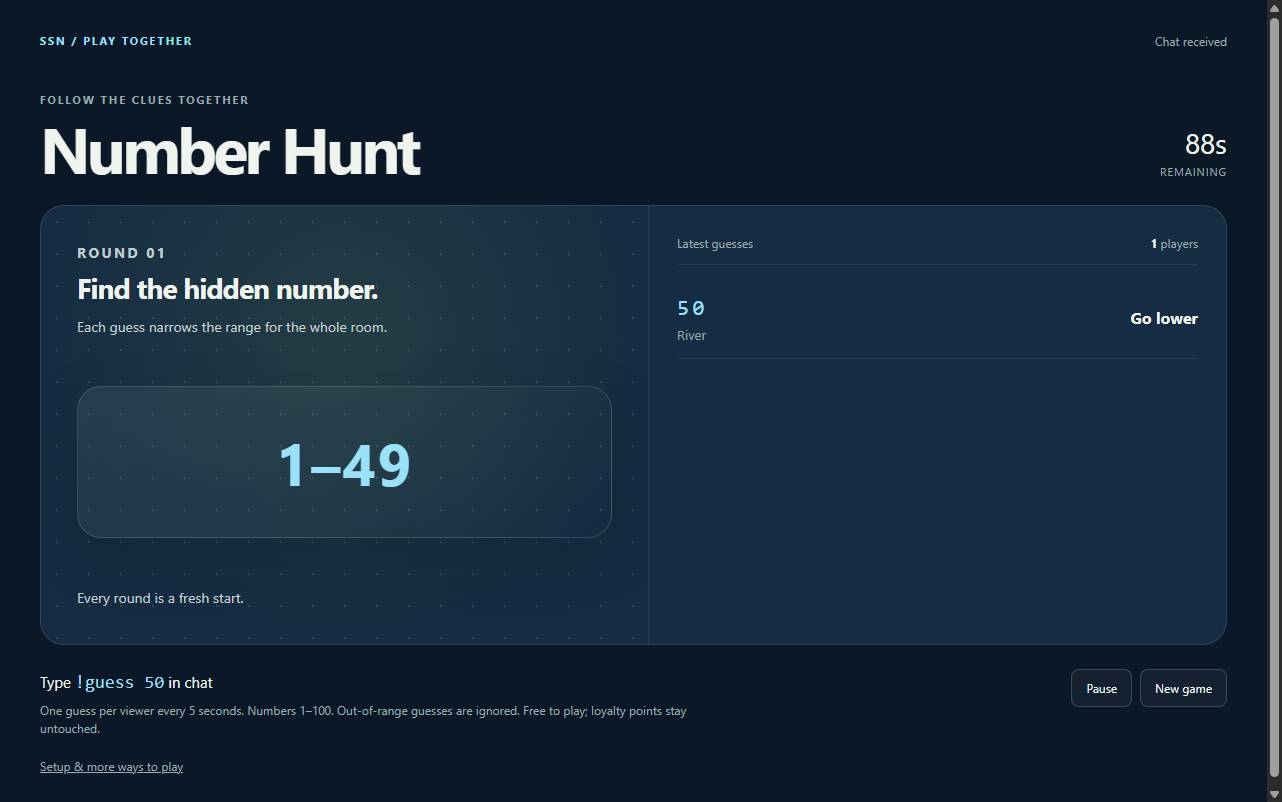
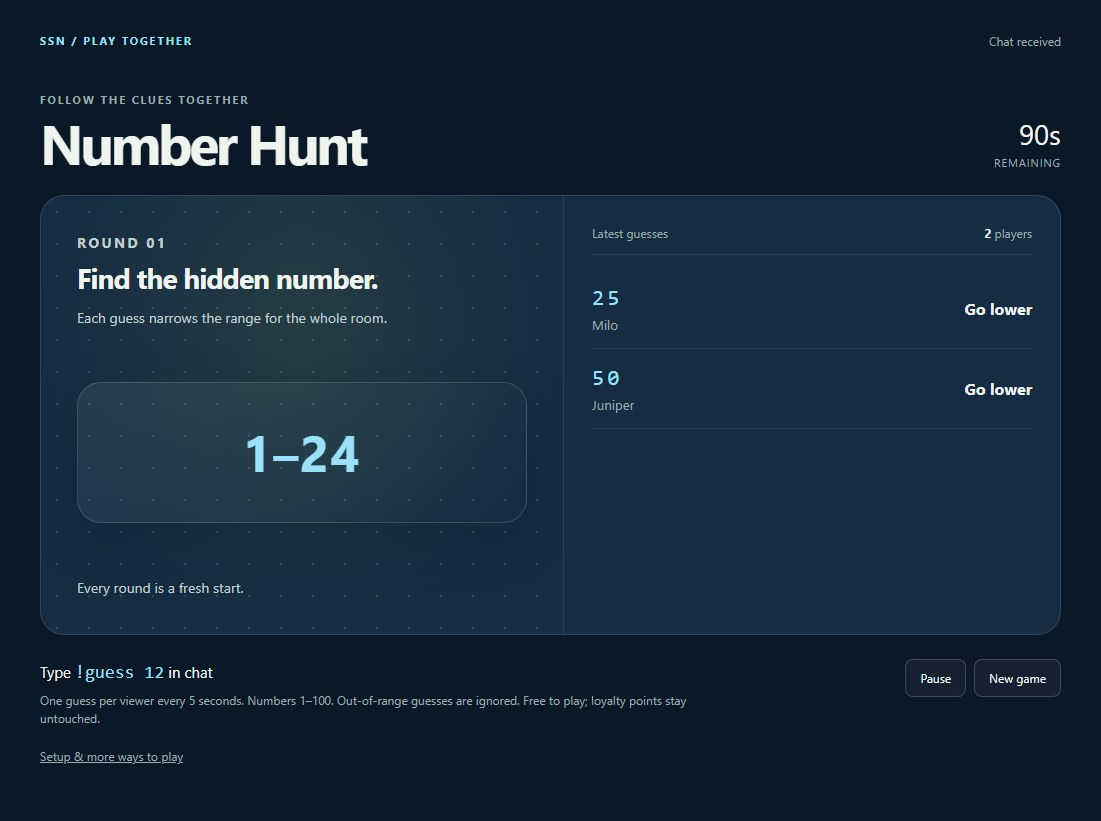
feat(games): add Quick Call game, polish Maze Raid and recent games, expand regression tests
- Add Quick Call (`!quick`) — a fast-paced name-recall game where viewers type their personal 4-character code within 30 seconds; transparent OBS background with `&clean` flag, pause/clear controls, and local best-time leaderboard
- Refresh Maze Raid description: faster auto-roaming explorer, textured brick-and-metal corridors with SSN wall signs, raiders spawn 3–8 steps away, maze now fills OBS browser source
- Update chat-games.html documentation with Quick Call section and revised Maze Raid details; add quickcall.jpg, update mazeraid.jpg and numberhunt.jpg
- Extend runtime regression coverage with new Playwright/e2e tests:
  - `quickcall.test.cjs`, `quickcall-ssapp.e2e.cjs`
  - `recent-games-ssapp.e2e.cjs`, `ambient-rounds-ssapp.e2e.cjs`, `maze-raid-ssapp.e2e.cjs`
  - `sticker-rewards.test.cjs`, `audience-games.test.cjs`, `site-shell.test.cjs`
  - `thermal-label-formatting.test.cjs`, `ambient-games.test.cjs`
- Update `.gitignore` to track new test files and exclude local TTS service clones, Firefox build output, and Windows cache artifacts

[auto-enhanced]

diff --git a/games/ambient-page.js b/games/ambient-page.js
@@ -2,7 +2,7 @@
 'use strict';
 var params=new URLSearchParams(location.search),mode=document.body.dataset.game,game=new SSNOverlayGame.Game(mode),demo=params.has('demo'),paused=false;
 var canvas=document.getElementById('playfield'),ctx=canvas.getContext('2d'),connection=document.getElementById('connection'),result=document.getElementById('result'),images=new Map(),last=performance.now(),lastDraw=0;
-function resize(){if(mode!=='maze')canvas.width=Math.min(1600,window.innerWidth);}
+function resize(){if(mode!=='maze'){canvas.width=Math.min(1600,window.innerWidth);return;}var scale=Math.min(1,640/window.innerWidth,480/window.innerHeight);canvas.width=Math.max(1,Math.round(window.innerWidth*scale));canvas.height=Math.max(1,Math.round(window.innerHeight*scale));}
 window.addEventListener('resize',resize);resize();
 if(demo)document.body.classList.add('demo');if(params.has('clean')){document.getElementById('controls').hidden=true;connection.hidden=true;}if(params.has('fullscreen'))document.body.classList.add('fullscreen');
 if(params.has('chroma'))document.body.classList.add('chroma');
@@ -17,10 +17,10 @@ function drawAmbient(){var w=canvas.width,h=canvas.height;ctx.clearRect(0,0,w,h)
   ctx.strokeStyle=ready?'#ceffa8':'#cce2db';ctx.lineWidth=3;ctx.beginPath();ctx.ellipse(w/2,100,Math.max(30,width/8),42,0,0,Math.PI*2);ctx.stroke();
   var glow=ctx.createRadialGradient(x,y,0,x,y,35);glow.addColorStop(0,'#f3ffd6cc');glow.addColorStop(1,'#d5ff8c00');ctx.fillStyle=glow;ctx.fillRect(x-35,y-35,70,70);star(x,y,12,'#edffc7');
   text(game.phase==='waiting'?'Type !catch to wake the fireflies':ready?'CATCH NOW!':'Wait for the ring...',w/2,174,w<600?13:18,ready?'#dcffb2':'#eef8f3','center');
-  game.effects.forEach(function(e,i){var age=game.time-e.at;text(e.name.slice(0,14)+(e.score?' +'+e.score:' · too early / late'),left+(i%4)*width/4,135-age*20,12,e.score?'#e2ffc1':'#c2c8cf');});
+  game.effects.forEach(function(e,i){var age=game.time-e.at;text(e.name.slice(0,14)+(e.score?' +'+e.score:' - too early / late'),left+(i%4)*width/4,135-age*20,12,e.score?'#e2ffc1':'#c2c8cf');});
  }else{
   ['#ffa3a3','#9deedc'].forEach(function(color,team){var y=65+team*70,progress=game.points[team]/20,x=left+width*progress;ctx.fillStyle='#18263899';roundRect(left,y-5,width,10,5);ctx.fill();var glow=ctx.createLinearGradient(Math.max(left,x-100),0,x+1,0);glow.addColorStop(0,color+'00');glow.addColorStop(1,color);ctx.fillStyle=glow;ctx.fillRect(Math.max(left,x-100),y-4,Math.min(100,x-left),8);star(x,y,18,color);text(team?'MINT':'CORAL',left,y-24,12,color);text(game.points[team]+' / 20',right,y-24,12,color,'right');});
-  ctx.strokeStyle='#e8f1ff';ctx.lineWidth=2;ctx.beginPath();ctx.moveTo(right+18,36);ctx.lineTo(right+18,155);ctx.stroke();text('Type !boost · Your first boost assigns your team',w/2,188,w<600?10:16,'#f4f7ff','center');
+  ctx.strokeStyle='#e8f1ff';ctx.lineWidth=2;ctx.beginPath();ctx.moveTo(right+18,36);ctx.lineTo(right+18,155);ctx.stroke();text('Type !boost - Your first boost assigns your team',w/2,188,w<600?10:16,'#f4f7ff','center');
   game.effects.forEach(function(e,i){text(e.name.slice(0,14)+' +1',left+(i%5)*width/5,65+e.team*70-(game.time-e.at)*15,12,e.team?'#9deedc':'#ffa3a3');});
  }
 }
@@ -45,8 +45,18 @@ function makeMazeTextures(){
  }
  return textures;
 }
+function makeRaiderSprite(enemy,record){
+ var sprite=document.createElement('canvas');sprite.width=64;sprite.height=80;var t=sprite.getContext('2d');t.imageSmoothingEnabled=false;
+ var armor=enemy.color?'#74aa94':'#ad7957';
+ t.fillStyle='#172130';t.fillRect(8,68,18,12);t.fillRect(38,68,18,12);t.fillRect(3,40,58,24);
+ t.fillStyle=armor;t.fillRect(9,39,46,30);t.fillRect(0,44,10,17);t.fillRect(54,44,10,17);
+ t.fillStyle='#ced5c4';t.fillRect(12,0,40,43);t.fillStyle='#162537';t.fillRect(15,4,34,34);
+ if(record.ready)t.drawImage(record.img,15,4,34,34);else{t.fillStyle='#d6f2c2';t.font='bold 18px monospace';t.textAlign='center';t.fillText(enemy.name.slice(0,2).toUpperCase(),32,28);}
+ t.fillStyle='#273747';t.fillRect(21,46,22,13);t.fillStyle='#f5cf68';t.fillRect(25,49,4,4);t.fillRect(35,49,4,4);
+ return sprite;
+}
 function drawMaze(){
- var w=canvas.width,h=canvas.height,p=game.explorer,map=game.map,fov=Math.PI/3,rays=320,strip=w/rays,z=[];
+ var w=canvas.width,h=canvas.height,p=game.explorer,map=game.map,fov=2*Math.atan(w/(h*1.6)),rays=320,strip=w/rays,z=[];
  ctx.imageSmoothingEnabled=false;
  ctx.fillStyle='#252338';ctx.fillRect(0,0,w,h/2);ctx.fillStyle='#454343';ctx.fillRect(0,h/2,w,h/2);
  var plane=Math.tan(fov/2),fx=Math.cos(p.angle),fy=Math.sin(p.angle);
@@ -63,36 +73,44 @@ function drawMaze(){
   var raw=side?ty-ddy:tx-ddx,dist=Math.max(0.05,raw*Math.cos(angle-p.angle)),wall=h*0.8/dist,top=(h-wall)/2,hit=side?p.x+raw*dx:p.y+raw*dy,u=hit-Math.floor(hit),light=Math.max(0.16,1/(1+dist*0.17))*(side?0.74:1),panel=(mx+my)%4===0;
   z[i]=dist;
   var texture=mazeTextures[Math.abs(mx*3+my*7)%mazeTextures.length],column=Math.min(63,Math.floor(u*64));
+  if((!side&&dx<0)||(side&&dy>0))column=63-column;
   ctx.drawImage(texture,column,0,1,64,i*strip,top,strip+1,wall);
   ctx.fillStyle='rgba(0,0,0,'+(1-light)+')';ctx.fillRect(i*strip,top,strip+1,wall);
 
  }
  // Paint far enemies first, and clip every sprite strip against the wall depth.
  var sprites=game.enemies.map(function(e){var dx=e.x-p.x,dy=e.y-p.y;return {e:e,forward:dx*Math.cos(p.angle)+dy*Math.sin(p.angle),across:-dx*Math.sin(p.angle)+dy*Math.cos(p.angle)};}).filter(function(s){return s.forward>0.1;}).sort(function(a,b){return b.forward-a.forward;});
- sprites.forEach(function(s){var e=s.e,projection=w/(2*Math.tan(fov/2)),size=Math.min(h*2,h*0.48/s.forward),x=w/2+s.across/s.forward*projection-size/2,y=h/2-size*0.24,record=images.get(e.key);
-  if(!record){record={img:null,ready:false};images.set(e.key,record);if(e.avatar){var img=new Image();img.referrerPolicy='no-referrer';img.onload=function(){record.ready=img.naturalWidth>0;};img.onerror=function(){record.ready=false;};img.src=e.avatar;record.img=img;}}
+ var labels=[];
+ sprites.forEach(function(s){var e=s.e,projection=w/(2*Math.tan(fov/2)),size=Math.min(h*0.48,h*0.48/s.forward),x=w/2+s.across/s.forward*projection-size/2,y=h/2+Math.min(h*.43,h*.4/s.forward)-size*1.25,record=images.get(e.key);
+  if(!record){record={img:null,ready:false};record.sprite=makeRaiderSprite(e,record);images.set(e.key,record);if(e.avatar){var img=new Image();img.referrerPolicy='no-referrer';img.onload=function(){record.ready=img.naturalWidth>0;record.sprite=makeRaiderSprite(e,record);};img.onerror=function(){record.ready=false;};img.src=e.avatar;record.img=img;}}
   if(x>w||x+size<0)return;var visible=false;
   for(var col=Math.max(0,Math.floor(x/strip));col<Math.min(rays,Math.ceil((x+size)/strip));col++){if(s.forward>=z[col])continue;visible=true;ctx.save();ctx.beginPath();ctx.rect(col*strip,0,strip+0.5,h);ctx.clip();
-   ctx.fillStyle=e.color?'#82e3ca':'#f1a1b0';roundRect(x,y,size,size*1.15,size*0.12);ctx.fill();ctx.fillStyle='#152033';roundRect(x+size*0.08,y+size*0.08,size*0.84,size*0.84,size*0.08);ctx.fill();
-   if(record.ready)ctx.drawImage(record.img,x+size*0.1,y+size*0.1,size*0.8,size*0.8);else text(e.name.slice(0,2).toUpperCase(),x+size/2,y+size*0.66,size*0.4,'#e2f0f5','center');
+   ctx.drawImage(record.sprite,x,y,size,size*1.25);
    ctx.restore();}
-  if(visible&&s.forward<7){text(e.name,x+size/2,Math.max(15,y-9),Math.max(10,Math.min(18,size*0.16)),'#fff','center');}
+  if(visible&&s.forward<7)labels.push({name:e.name,x:x+size/2,y:Math.max(42,y-9),size:Math.max(10,Math.min(18,size*.16))});
+ });
+ // Nearest names take priority; overlapping raiders must not stack unreadable labels.
+ var occupied=[];labels.reverse().forEach(function(label){
+  ctx.font='600 '+label.size+'px monospace';var width=ctx.measureText(label.name).width;
+  var box={left:label.x-width/2,right:label.x+width/2,top:label.y-label.size,bottom:label.y+3};
+  if(occupied.some(function(b){return box.left<b.right&&box.right>b.left&&box.top<b.bottom&&box.bottom>b.top;}))return;
+  occupied.push(box);text(label.name,label.x,label.y,label.size,'#fff','center');
  });
  var shade=ctx.createRadialGradient(w/2,h/2,h*0.2,w/2,h/2,w*0.65);shade.addColorStop(0,'#0000');shade.addColorStop(1,'#03081744');ctx.fillStyle=shade;ctx.fillRect(0,0,w,h);
  if(game.hitFlash){ctx.fillStyle='rgba(244,83,104,'+(game.hitFlash*1.1)+')';ctx.fillRect(0,0,w,h);}
  // Original retro explorer visor, with a quiet compass and floor-level movement cue.
  ctx.strokeStyle='#b7e2d766';ctx.lineWidth=1;ctx.beginPath();ctx.moveTo(w/2-6,h/2);ctx.lineTo(w/2+6,h/2);ctx.moveTo(w/2,h/2-6);ctx.lineTo(w/2,h/2+6);ctx.stroke();
- var heading=((p.angle*180/Math.PI)%360+360)%360;text(['E','S','W','N'][Math.round(heading/90)%4]+' / '+Math.round(heading)+'\u00b0',w/2,24,12,'#c0d8d6','center');
+ var heading=((p.angle*180/Math.PI)%360+360)%360;text(['E','S','W','N'][Math.round(heading/90)%4]+' / '+Math.round(heading)+'\u00b0',w/2,(window.innerWidth<600?56:24),12,'#c0d8d6','center');
 }
 function render(){document.body.dataset.phase=game.phase;document.getElementById('round').textContent='Round '+game.round;document.getElementById('players').textContent=game.users.size+(mode==='maze'?' raiders':' players');
  document.getElementById('meter').textContent=paused?'Paused':mode==='maze'?game.hp+' HP':game.phase==='waiting'?'Starts with chat':mode==='catch'?'Flight '+Math.min(6,game.flight+1)+' / 6':Math.max(0,Math.ceil(60-game.time))+'s';
- result.hidden=game.phase!=='result';result.textContent=game.result+(game.phase==='result'?' · Next round in '+Math.max(0,Math.ceil(game.endAt-game.time))+'s':'');
+ result.hidden=game.phase!=='result';result.textContent=game.result+(game.phase==='result'?' - Next round in '+Math.max(0,Math.ceil(game.endAt-game.time))+'s':'');
  if(mode==='maze'){document.getElementById('health').style.width=game.hp+'%';drawMaze();}else drawAmbient();
  if(images.size&&!game.enemies.length)images.clear();
 }
 document.getElementById('pause').onclick=function(){paused=!paused;this.textContent=paused?'Resume':'Pause';render();};document.getElementById('restart').onclick=function(){game.begin();images.clear();render();};
 function frame(now){var dt=(now-last)/1000;last=now;if(!paused)game.tick(dt);if(now-lastDraw>=33){render();lastDraw=now;}requestAnimationFrame(frame);}requestAnimationFrame(frame);render();
-if(demo){connection.textContent='Preview · simulated chat';var n=0;setInterval(function(){n++;receive({id:'demo-'+n,type:'demo',chatname:['Nova','Milo','Juniper','River','Ava','CosmicCat'][n%6],chatmessage:mode==='maze'?'Hello maze!':mode==='catch'?'!catch':'!boost',textonly:true});},mode==='catch'?650:1500);return;}
+if(demo){connection.textContent='Preview - simulated chat';var n=0;setInterval(function(){n++;receive({id:'demo-'+n,type:'demo',chatname:['Nova','Milo','Juniper','River','Ava','CosmicCat'][n%6],chatmessage:mode==='maze'?'Hello maze!':mode==='catch'?'!catch':'!boost',textonly:true});},mode==='catch'?650:1500);return;}
 var session=params.get('session')||params.get('room')||params.get('s')||params.get('id');if(!session){connection.textContent='Add your SSN session to connect';return;}
 if(params.has('server')){var endpoint=params.get('server')||'wss://io.socialstream.ninja',socket,retry,closed=false;try{var parsed=new URL(endpoint);if(parsed.protocol!=='ws:'&&parsed.protocol!=='wss:')throw new Error();}catch(_){connection.textContent='Invalid relay address';return;}
  function connect(){if(closed)return;connection.textContent='Connecting to chat';try{socket=new WebSocket(endpoint);}catch(_){connection.textContent='Could not connect';return;}socket.onopen=function(){socket.send(JSON.stringify({join:session.split(',')[0],out:2,in:1}));connection.textContent='Relay connected - waiting for chat';};socket.onmessage=function(event){if(typeof event.data!=='string'||event.data.length>256000)return;try{receive(JSON.parse(event.data));}catch(_){}};socket.onerror=function(){socket.close();};socket.onclose=function(){if(!closed){connection.textContent='Reconnecting';retry=setTimeout(connect,5000);}};}

diff --git a/games/ambient.css b/games/ambient.css
@@ -1,15 +1,15 @@
-:root{color-scheme:dark;font:14px/1.4 system-ui,-apple-system,"Segoe UI",sans-serif;color:#eff8fa;}*{box-sizing:border-box;}html,body{margin:0;width:100%;height:100%;background:transparent;overflow:hidden;}body.demo{background:repeating-conic-gradient(#18222c 0% 25%,#1d2934 0% 50%) 0 0/40px 40px;}body.chroma{background:#00ff00;}[hidden]{display:none!important;}button{font:inherit;cursor:pointer;color:#eff8fa;background:#152432e8;border:1px solid #687d8c;border-radius:6px;padding:6px 10px;}button:focus-visible{outline:2px solid #d9ffb3;outline-offset:3px;}#controls{position:fixed;top:12px;right:12px;display:flex;gap:6px;z-index:3;}#connection{position:fixed;top:12px;left:12px;background:#101e2ce0;border-radius:6px;padding:5px 9px;font-size:11px;color:#c9d9e2;}#layer{position:absolute;bottom:0;left:0;width:100%;height:290px;}header{display:flex;align-items:center;justify-content:space-between;gap:10px;max-width:1080px;margin:auto;padding:8px 20px;text-shadow:0 2px 4px #000,0 0 10px #000;}h1{font-size:20px;letter-spacing:-.025em;margin:0;}header p{margin:2px 0 0;font-size:11px;color:#d9e8ee;}.metrics{display:flex;gap:14px;font-size:12px;}#meter{font-weight:700;color:#dfffae;}#playfield{width:100%;height:220px;display:block;filter:drop-shadow(0 2px 4px #07121acc);}#result{position:absolute;left:50%;top:50%;transform:translate(-50%,-50%);max-width:90%;width:max-content;background:#11232ef2;color:#e4ffbb;border:1px solid #739d88;border-radius:12px;padding:20px 26px;font-size:20px;text-align:center;box-shadow:0 8px 30px #0005;z-index:2;}.maze #layer{left:auto;right:18px;bottom:18px;width:800px;max-width:calc(100% - 36px);height:auto;border:1px solid #637e83;border-radius:14px;overflow:hidden;background:#101c25;box-shadow:0 10px 40px #0005;}.maze header{padding:14px 18px;}.maze #playfield{height:auto;aspect-ratio:16/10;image-rendering:pixelated;filter:none;}.maze #result{font-size:24px;}.health-track{height:4px;background:#392433;}#health{height:100%;background:#a0e4c3;transition:width .2s;}body.fullscreen.maze #layer{width:100%;max-width:none;right:0;bottom:0;height:100%;border-radius:0;border:0;}.fullscreen.maze #playfield{height:calc(100% - 69px);object-fit:cover;}@media(max-width:600px){header{padding:8px 12px;}h1{font-size:17px;}.metrics{gap:7px;font-size:10px;}.maze header{flex-wrap:wrap;}.maze #layer{right:10px;bottom:10px;max-width:calc(100% - 20px);}#result,.maze #result{font-size:17px;padding:14px;}#connection{max-width:calc(100% - 160px);font-size:10px;}}
+:root{color-scheme:dark;font:14px/1.4 system-ui,-apple-system,"Segoe UI",sans-serif;color:#eff8fa;}*{box-sizing:border-box;}html,body{margin:0;width:100%;height:100%;background:transparent;overflow:hidden;}body.demo{background:repeating-conic-gradient(#18222c 0% 25%,#1d2934 0% 50%) 0 0/40px 40px;}body.chroma{background:#00ff00;}[hidden]{display:none!important;}button{font:inherit;cursor:pointer;color:#eff8fa;background:#152432e8;border:1px solid #687d8c;border-radius:6px;padding:6px 10px;}button:focus-visible{outline:2px solid #d9ffb3;outline-offset:3px;}#controls{position:fixed;top:12px;right:12px;display:flex;gap:6px;z-index:3;}#connection{position:fixed;top:12px;left:12px;background:#101e2ce0;border-radius:6px;padding:5px 9px;font-size:11px;color:#c9d9e2;}#layer{position:absolute;bottom:0;left:0;width:100%;height:290px;}header{display:flex;align-items:center;justify-content:space-between;gap:10px;max-width:1080px;margin:auto;padding:8px 20px;text-shadow:0 2px 4px #000,0 0 10px #000;}h1{font-size:20px;letter-spacing:-.025em;margin:0;}header p{margin:2px 0 0;font-size:11px;color:#d9e8ee;}.metrics{display:flex;gap:14px;font-size:12px;}#meter{font-weight:700;color:#dfffae;}#playfield{width:100%;height:220px;display:block;filter:drop-shadow(0 2px 4px #07121acc);}#result{position:absolute;left:50%;top:50%;transform:translate(-50%,-50%);max-width:90%;width:max-content;background:#11232ef2;color:#e4ffbb;border:1px solid #739d88;border-radius:12px;padding:20px 26px;font-size:20px;text-align:center;box-shadow:0 8px 30px #0005;z-index:2;}.maze #layer{left:auto;right:18px;bottom:18px;width:800px;max-width:calc(100% - 36px);height:auto;border:1px solid #637e83;border-radius:14px;overflow:hidden;background:#101c25;box-shadow:0 10px 40px #0005;}.maze header{padding:14px 18px;}.maze #playfield{height:auto;aspect-ratio:16/10;image-rendering:pixelated;filter:none;}.maze #result{font-size:24px;}.health-track{height:4px;background:#392433;}#health{height:100%;background:#a0e4c3;transition:width .2s;}body.fullscreen.maze #layer{width:100%;max-width:none;right:0;bottom:0;height:100%;border-radius:0;border:0;}.fullscreen.maze #playfield{height:calc(100% - 69px);object-fit:cover;}@media(max-width:600px){header{padding:8px 12px;}h1{font-size:17px;}.metrics{gap:7px;font-size:10px;}.maze header{flex-wrap:wrap;}.maze #layer{right:10px;bottom:10px;max-width:calc(100% - 20px);}#result,.maze #result{font-size:17px;padding:14px;}#connection{max-width:calc(100% - 160px);font-size:10px;}}
 
-/* Maze Raid: beveled DOS-era frame; other ambient games retain their styling. */
+/* Maze Raid fills the browser source; its compact HUD sits over the game. */
 .maze { font-family: 'Courier New', monospace; }
-.maze #layer { border: 4px ridge #c1bba9; border-radius: 0; background: #373b41; box-shadow: 5px 5px 0 #0008; }
-.maze header { background: linear-gradient(90deg,#071d68,#194e91); border-bottom: 3px ridge #b5b1a6; padding: 10px 14px; text-shadow: 2px 2px #081224; }
+body.maze #layer { top: 0; right: 0; bottom: 0; left: 0; width: 100%; max-width: none; height: 100%; border: 0; border-radius: 0; background: #252338; box-shadow: none; }
+body.maze #playfield, body.fullscreen.maze #playfield { width: 100%; height: 100%; aspect-ratio: auto; object-fit: fill; }
+.maze header { position: absolute; bottom: 8px; left: 0; right: 0; z-index: 1; max-width: none; background: linear-gradient(0deg,#111927ed,transparent); padding: 20px 18px 10px; text-shadow: 2px 2px #081224; }
 .maze h1 { font-family: 'Courier New', monospace; font-weight: 900; letter-spacing: .08em; text-transform: uppercase; color: #fff0bd; }
 .maze .metrics { font-weight: bold; text-transform: uppercase; }
-.maze .health-track { height: 8px; background: #351b20; border-bottom: 2px solid #15191f; }
+.maze .health-track { position: absolute; bottom: 0; left: 0; right: 0; z-index: 1; height: 6px; background: #351b20; }
 .maze #health { background: repeating-linear-gradient(90deg,#cf3e38 0,#cf3e38 12px,#732827 12px,#732827 14px); }
-.maze #result { border: 4px ridge #c1bba9; border-radius: 0; background: #101c39; color: #ffe19b; font-family: 'Courier New',monospace; }
+.maze #result { border: 2px solid #c1bba9; border-radius: 0; background: #101c39ed; color: #ffe19b; font-family: 'Courier New',monospace; }
 .maze button, .maze #connection { border-radius: 0; }
-.maze button { border: 2px outset #b6bdc4; }
-.maze button:active { border-style: inset; }
-.fullscreen.maze #playfield { height: calc(100% - 77px); object-fit: contain; }
+
+@media(max-width:600px){body:not(.maze) #layer{height:320px}body:not(.maze) header{flex-wrap:wrap;gap:6px}body:not(.maze) header>div:first-child{width:100%}body:not(.maze) .metrics{white-space:nowrap}}

diff --git a/docs/chat-games.html b/docs/chat-games.html
@@ -5,7 +5,8 @@
 <body><main class="shell"><header class="masthead"><a class="brand" href="../index.html">Social Stream Ninja</a><a href="guides.html">Guides</a></header>
 <div class="topline"><div><p class="eyebrow">Give chat something to do together</p><h1>Small games.<br>Shared moments.</h1><p><a href="games-gallery.html">Browse all games with screenshots &rarr;</a></p></div></div>
 <p style="max-width:720px;color:#bccbce;margin-bottom:32px">A puzzle between matches. A tiny adventure during a coffee break. A word chain while you work. Viewers play in the chat they already use.</p>
-<section class="board" style="margin-bottom:24px"><div class="scene"><p class="eyebrow">Made for OBS layers</p><h2>Play over your stream</h2><p>These three games leave the surrounding page transparent. Start with a 1280 &times; 800 browser source. Add <code>&amp;clean</code> to hide host buttons and connection status. Preview pages show a checkerboard to make the transparent areas visible.</p></div><div class="content"><h2>Three new ways to play</h2><p><a href="../games/fireflycatch.html?demo">Firefly Catch</a>: type <code>!catch</code> to start, then catch when the firefly enters the ring. One attempt per viewer per flight; a centered catch earns 3 points, other catches in the ring earn 1. Six flights, then a winner.</p><p><a href="../games/cometrally.html?demo">Comet Rally</a>: type <code>!boost</code> to join an automatically assigned team. Each viewer can boost once every 3 seconds. First to 20 boosts wins, or the leader after 60 seconds.</p><p><a href="../games/mazeraid.html?demo">Maze Raid</a>: the explorer roams by itself. Ordinary chat spawns one avatar enemy per chatter, up to 40 per round. Enemies chase and attack; the final hit wins. Failed or missing avatar images show initials. The maze sits in a movable OBS browser-source frame; add <code>&amp;fullscreen</code> to fill the source.</p><p class="hint">All three restart after an 8-second result screen. Host pause and New round are available through OBS Interact. No points are spent and no bot messages are sent.</p></div></section>
+<section class="board" id="quickcall" style="margin-bottom:24px"><div class="scene"><p class="eyebrow">Keep an eye on your name</p><h2>Quick Call</h2><p>Three names. Fresh four-character codes. Be ready when it is your turn.</p><p><a href="../games/quickcall.html?demo">Try the preview &rarr;</a></p></div><div class="content"><h2>How to play</h2><p>Type <code>!quick</code> to join. When called, type your own code within 30 seconds. Correct replies rotate back into the queue; missed turns require joining again. The overlay ranks the five fastest personal-best times. Codes ignore capitalization.</p><p class="hint">Transparent OBS background. Add <code>&amp;clean</code> to hide host controls. Pause freezes the game; Clear scores or reloading starts fresh. Scores stay only in this page. No bot messages, points, or purchases. Times include stream and chat delay, so this is a casual competition. Random codes discourage prepared answers; they cannot prevent automated reading.</p></div></section>
+<section class="board" style="margin-bottom:24px"><div class="scene"><p class="eyebrow">Made for OBS layers</p><h2>Play over your stream</h2><p>Firefly Catch and Comet Rally leave the surrounding page transparent; Maze Raid fills its source. Start with a 1280 &times; 800 browser source. Add <code>&amp;clean</code> to hide host buttons and connection status. Preview pages show a checkerboard to make the transparent areas visible.</p></div><div class="content"><h2>Three new ways to play</h2><p><a href="../games/fireflycatch.html?demo">Firefly Catch</a>: type <code>!catch</code> to start, then catch when the firefly enters the ring. One attempt per viewer per flight; a centered catch earns 3 points, other catches in the ring earn 1. Six flights, then a winner.</p><p><a href="../games/cometrally.html?demo">Comet Rally</a>: type <code>!boost</code> to join an automatically assigned team. Each viewer can boost once every 3 seconds. First to 20 boosts wins, or the leader after 60 seconds.</p><p><a href="../games/mazeraid.html?demo">Maze Raid</a>: a faster auto-roaming explorer navigates textured brick-and-metal corridors with SSN wall signs. Ordinary chat spawns one avatar enemy per chatter, up to 40 per round. Raiders spawn 3 to 8 corridor steps away, chase and attack; the final hit wins. Failed or missing avatar images show initials. The maze fills its OBS browser source; resize the source to fit your scene.</p><p class="hint">All three restart after an 8-second result screen. Host pause and New round are available through OBS Interact. No points are spent and no bot messages are sent.</p></div></section>
 <section class="board"><div class="scene"><p class="eyebrow">01 / Work it out together</p><h2>Signal Lock</h2><div class="signal-art" aria-hidden="true"><span class="digit">1</span><span class="digit">?</span><span class="digit">4</span><span class="digit">?</span></div><p>Chat has 90 seconds to crack four digits. Every guess gives everyone a clue. Great for puzzle fans, study breaks, gaming lobbies, and smaller communities.</p></div><div class="content"><h2>How to play</h2><p>Type <code>!code 1234</code>. Digits range from 1 to 6, and can repeat. “Exact” means the correct digit and position. The other count shows correct digits in different positions.</p><p class="hint">The first valid guess starts the clock. Five seconds between each viewer’s guesses; identical guesses are ignored.</p><p><a href="../games/signallock.html?demo">Try the preview →</a></p></div></section>
 <section class="board" style="margin-top:24px"><div class="scene"><p class="eyebrow">02 / Let the room decide</p><h2>Crowd Quest</h2><div class="planet-art" aria-hidden="true"><div class="planet"></div></div><p>A five-stop space trip guided by chat. Choose routes, manage shared supplies, and bring home discoveries. A relaxed fit for talk, art, music, cozy gaming, and variety streams.</p></div><div class="content"><h2>How to play</h2><p>Type <code>!vote 1</code>, <code>!vote 2</code>, or <code>!vote 3</code>. Each chapter gives the crew 30 seconds to choose. One vote per viewer; the latest valid choice replaces their previous vote.</p><p class="hint">The first vote starts each chapter. Outcomes are shown before voting. Ties are random, and routes needing more supplies than the crew has are unavailable.</p><p><a href="../games/crowdquest.html?demo">Try the preview →</a></p></div></section>
 <section class="board" style="margin-top:24px"><div class="scene"><p class="eyebrow">Follow the clues together</p><h2>Number Hunt</h2><p>Each guess narrows the range for the whole room.</p></div><div class="content"><h2>How to play</h2><p>Type <code>!guess 50</code>.</p><p class="hint">One guess per viewer every 5 seconds. Numbers 1&ndash;100. Out-of-range guesses are ignored.</p><p><a href="../games/numberhunt.html?demo">Try the preview &rarr;</a></p></div></section>

diff --git a/games/quickcall.js b/games/quickcall.js
@@ -1,0 +1,20 @@
+(function(){'use strict';
+var params=new URLSearchParams(location.search),demo=params.has('demo'),game=new SSNQuickCall({now:function(){return performance.now();}}),connection=document.getElementById('connection'),paused=false,pausedAt=0,revision=-1;
+if(demo)document.body.classList.add('demo');if(params.has('chroma'))document.body.classList.add('chroma');if(params.has('clean'))document.getElementById('controls').hidden=true;
+function el(tag,value,cls){var e=document.createElement(tag);e.textContent=value;if(cls)e.className=cls;return e;}
+function render(){document.getElementById('clock').textContent=paused?'PAUSED':game.phase==='waiting'?'JOIN IN':Math.max(0,Math.ceil((game.deadline-performance.now())/1000))+'s';if(revision===game.revision)return;revision=game.revision;
+document.getElementById('round').textContent=game.phase==='waiting'?'Waiting for players':game.phase==='joining'?'Calling names shortly':'Call '+game.round;document.getElementById('queue').textContent=game.queue.length+' waiting';document.getElementById('instruction').textContent=game.phase==='result'?'Times are in! Next names coming up. Type !quick to join.':'Type !quick to join. Only reply when your name is called.';
+var calls=document.getElementById('calls');calls.textContent='';game.calls.forEach(function(c){var row=el('article','','call'+(c.time!==null?' done':''));row.appendChild(el('span',c.name,'name'));row.appendChild(el('strong',c.code,'code'));row.appendChild(el('span',c.time!==null?(c.time/1000).toFixed(2)+'s - got it!':game.phase==='result'?'Missed - !quick to rejoin':'Your turn - type this code','outcome'));calls.appendChild(row);});if(!game.calls.length)calls.appendChild(el('p','Your name. Four characters. How quick are you?','empty'));
+var leaders=document.getElementById('leaders');leaders.textContent='';game.leaders().forEach(function(p,i){var row=el('li','');row.appendChild(el('span',(i+1)+'. '+p.name));row.appendChild(el('b',(p.best/1000).toFixed(2)+'s'));leaders.appendChild(row);});if(!leaders.children.length)leaders.appendChild(el('li','Your first correct reply starts the leaderboard.'));
+}
+function receive(payload){if(paused)return;(Array.isArray(payload)?payload.slice(0,100):[payload]).forEach(function(m){if(m&&m.content)m=m.content;if(!m||typeof m.chatmessage!=='string'||m.chatmessage.length>2000)return;var copy=Object.assign({},m);if(!copy.textonly){var t=document.createElement('template');t.innerHTML=copy.chatmessage;copy.chatmessage=t.content.textContent||'';}if(game.input(copy)&&!demo)connection.textContent='Chat received';});render();}
+document.getElementById('pause').onclick=function(){paused=!paused;if(paused)pausedAt=performance.now();else game.shiftTime(performance.now()-pausedAt);this.textContent=paused?'Resume':'Pause';render();};document.getElementById('restart').onclick=function(){game.reset();revision=-1;if(paused)pausedAt=performance.now();render();};setInterval(function(){if(!paused){game.tick();render();}},100);render();
+if(demo){connection.textContent='Preview - simulated chat';['Juniper','Milo','Cosmic Cat','Nova','River'].forEach(function(name){receive({type:'demo',chatname:name,chatmessage:'!quick',textonly:true});});setInterval(function(){if(paused||game.phase!=='active')return;var c=game.calls.find(function(c){return c.time===null;});if(c)receive({type:'demo',chatname:c.name,chatmessage:c.code,textonly:true});},2700);return;}
+var session=params.get('session')||params.get('room')||params.get('s')||params.get('id');if(!session){connection.textContent='Add your SSN session to connect';return;}
+if(params.has('server')){var endpoint=params.get('server')||'wss://io.socialstream.ninja',socket,retry,closed=false;try{var parsed=new URL(endpoint);if(parsed.protocol!=='ws:'&&parsed.protocol!=='wss:')throw new Error();}catch(_){connection.textContent='Invalid relay address';return;}
+ function connect(){if(closed)return;connection.textContent='Connecting to chat';try{socket=new WebSocket(endpoint);}catch(_){connection.textContent='Could not connect';return;}socket.onopen=function(){socket.send(JSON.stringify({join:session.split(',')[0],out:2,in:1}));connection.textContent='Relay connected - waiting for chat';};socket.onmessage=function(event){if(typeof event.data!=='string'||event.data.length>256000)return;try{receive(JSON.parse(event.data));}catch(_){}};socket.onerror=function(){socket.close();};socket.onclose=function(){if(!closed){connection.textContent='Reconnecting';retry=setTimeout(connect,5000);}};}
+ window.addEventListener('beforeunload',function(){closed=true;clearTimeout(retry);if(socket)socket.close();});connect();return;
+}
+var bridge=document.createElement('iframe');bridge.title='SSN chat connection';bridge.style.cssText='position:fixed;width:0;height:0;border:0;left:-100px;top:-100px';bridge.src='https://vdo.socialstream.ninja/?ln&salt=vdo.ninja&notmobile&password='+encodeURIComponent(params.get('password')||'false')+'&solo&view='+encodeURIComponent(session)+'&novideo&noaudio&label=dock&cleanoutput&room='+encodeURIComponent(session);
+window.addEventListener('message',function(event){if(event.source!==bridge.contentWindow)return;var data=event.data&&event.data.dataReceived;if(data&&data.overlayNinja)receive(data.overlayNinja);});document.body.appendChild(bridge);
+})();

diff --git a/games/quickcall-engine.js b/games/quickcall-engine.js
@@ -1,0 +1,18 @@
+(function(root){
+'use strict';
+function Game(options){options=options||{};this.now=options.now||Date.now;this.random=options.random||Math.random;this.reset();}
+Game.prototype.reset=function(){this.users=new Map();this.queue=[];this.calls=[];this.phase='waiting';this.deadline=0;this.round=0;this.revision=0;this.seen=new Set();this.codes=new Set();};
+Game.prototype.code=function(){var alphabet='ABCDEFGHJKMNPQRSTUVWXYZ23456789',base=alphabet.length,n=Math.floor(this.random()*Math.pow(base,4)),s;do{var value=n++;s='';for(var i=0;i<4;i++){s+=alphabet[value%base];value=Math.floor(value/base);}}while(this.codes.has(s));this.codes.add(s);if(this.codes.size>5000)this.codes.delete(this.codes.values().next().value);return s;};
+Game.prototype.start=function(){this.calls=[];while(this.queue.length&&this.calls.length<3){var p=this.users.get(this.queue.shift());if(p&&p.queued){p.queued=false;this.calls.push({key:p.key,name:p.name,code:this.code(),time:null,attempt:-Infinity});}}if(!this.calls.length){this.phase='waiting';this.deadline=0;this.revision++;return;}this.round++;this.phase='active';this.started=this.now();this.deadline=this.started+30000;this.revision++;};
+Game.prototype.finish=function(){var self=this;this.calls.forEach(function(c){var p=self.users.get(c.key);if(c.time!==null&&p){p.queued=true;self.queue.push(c.key);}});this.phase='result';this.deadline=this.now()+6000;this.revision++;};
+Game.prototype.tick=function(){if(!this.deadline||this.now()<this.deadline)return;if(this.phase==='active')this.finish();else this.start();};
+Game.prototype.shiftTime=function(ms){if(this.deadline)this.deadline+=ms;if(this.phase==='active')this.started+=ms;this.calls.forEach(function(c){if(c.attempt)c.attempt+=ms;});};
+Game.prototype.input=function(m){this.tick();if(!m||m.bot||m.private||m.reflection||m.event||typeof m.type!=='string'||typeof m.chatname!=='string'||typeof m.chatmessage!=='string'||m.chatmessage.length>100)return false;
+var key=m.type+':'+String(m.userid||m.username||m.chatname),text=m.chatmessage.trim().toUpperCase(),p=this.users.get(key),id=m.id==null?m.meta&&m.meta.messageId:m.id,dup=id==null?null:m.type+':'+String(m.tid||'')+':'+String(id);
+if(dup&&this.seen.has(dup))return false;
+function remember(self){if(dup){self.seen.add(dup);if(self.seen.size>5000)self.seen.delete(self.seen.values().next().value);}}
+if(text==='!QUICK'){if(p&&(p.queued||this.phase==='active'&&this.calls.some(function(c){return c.key===key;})))return false;if(!p){if(this.users.size>=1000)return false;p={key:key,name:m.chatname.slice(0,60),best:null,wins:0,queued:false};this.users.set(key,p);}p.queued=true;this.queue.push(key);remember(this);if(this.phase==='waiting'){this.phase='joining';this.deadline=this.now()+5000;}this.revision++;return true;}
+if(this.phase!=='active'||!p)return false;var c=this.calls.find(function(c){return c.key===key;});if(!c||c.time!==null||! /^[A-Z2-9]{4}$/.test(text)||this.now()-c.attempt<500)return false;c.attempt=this.now();remember(this);if(text!==c.code)return false;c.time=Math.max(0,this.now()-this.started);p.best=p.best===null?c.time:Math.min(p.best,c.time);p.wins++;this.revision++;if(this.calls.every(function(c){return c.time!==null;}))this.finish();return true;};
+Game.prototype.leaders=function(){return Array.from(this.users.values()).filter(function(p){return p.best!==null;}).sort(function(a,b){return a.best-b.best||b.wins-a.wins||a.name.localeCompare(b.name);}).slice(0,5);};
+if(typeof module==='object'&&module.exports)module.exports=Game;else root.SSNQuickCall=Game;
+})(typeof window==='undefined'?globalThis:window);

diff --git a/games/quickcall.css b/games/quickcall.css
@@ -1,0 +1,3 @@
+*{box-sizing:border-box}html,body{margin:0;min-height:100%;background:transparent;color:#f6f5ff;font:15px/1.4 system-ui,sans-serif}body.demo{background:repeating-conic-gradient(#18222c 0% 25%,#1d2934 0% 50%) 0 0/40px 40px}body.chroma{background:#00ff00}[hidden]{display:none!important}#controls{display:flex;gap:8px;justify-content:flex-end;align-items:center;padding:10px;font-size:11px}button{background:#221f38;color:#fff;border:1px solid #71698e;border-radius:7px;padding:7px 10px;cursor:pointer}button:focus-visible{outline:2px solid #cdff86}main{width:calc(100% - 32px);max-width:820px;margin:12px auto;padding:24px;border:1px solid #a9a0e04d;border-radius:22px;background:linear-gradient(130deg,#201c34ed,#101c2cf2);box-shadow:0 8px 30px #0003}header{display:flex;justify-content:space-between;align-items:center;gap:16px}header small{font-size:10px;letter-spacing:.16em;color:#b9afdc}h1{font-size:38px;letter-spacing:-.05em;margin:0}h1 span{color:#c6ff85;padding-left:12px}#clock{color:#c6ff85;font-size:23px;font-variant-numeric:tabular-nums}#instruction{color:#dfd8ee;font-size:13px;margin:12px 0 20px}#calls{display:grid;grid-template-columns:repeat(3,minmax(0,1fr));gap:10px;min-height:140px}.call{padding:16px 12px;background:#ffffff08;border:1px solid #8c7bbd66;border-top:3px solid #b399ff;border-radius:12px;min-width:0}.call:nth-child(2){border-top-color:#82d8e5}.call:nth-child(3){border-top-color:#f3ba80}.name{display:block;overflow:hidden;text-overflow:ellipsis;white-space:nowrap;color:#efeafb;font-weight:650}.code{display:block;font:800 32px/1.8 monospace;letter-spacing:.13em;color:#fff}.outcome{font-size:12px;color:#c7bddb}.done{background:#c6ff8510}.done .code,.done .outcome{color:#c6ff85}.empty{align-self:center;grid-column:1/-1;color:#c7bddb;text-align:center}footer{display:flex;justify-content:space-between;color:#b4abc8;font-size:11px;padding:14px 0}h2{font-size:12px;margin:0 0 12px;color:#d8ccec}h2 small{display:block;font-size:10px;font-weight:400;color:#ada5bc}ol{list-style:none;padding:0;margin:0;display:flex;gap:8px;flex-wrap:wrap}li{display:flex;gap:9px;align-items:center;background:#ffffff09;padding:7px 10px;border-radius:8px;font-size:11px;max-width:100%}li span{overflow:hidden;text-overflow:ellipsis;white-space:nowrap}li b{color:#c6ff85;white-space:nowrap}.note{margin:14px 0 0;color:#bdb3ce;font-size:10px}@media(max-width:520px){main{padding:16px;width:calc(100% - 16px)}h1{font-size:29px}#calls{grid-template-columns:1fr;min-height:0}.call{display:grid;grid-template-columns:minmax(0,1fr) auto;align-items:center;padding:8px 12px}.code{font-size:25px}.outcome{grid-column:1/-1}#controls{flex-wrap:wrap}}
+/* Keep the overlay steady as called players and score rows change. */
+body{overflow-anchor:none}

diff --git a/games/wordshuffle.html b/games/wordshuffle.html
@@ -6,6 +6,6 @@
 <p id="result" class="result" role="status" hidden></p>
 <section class="board" aria-label="Word Shuffle game"><div class="scene"><div><p id="round" class="eyebrow">Round 01</p><h2>A jumble worth solving.</h2><p>Unscramble one English word together before the clock runs out.</p></div><div id="party-art" class="party-art" aria-label="Game board"></div><p>Every round is a fresh start.</p></div>
 <div class="content"><div class="metrics"><span>Latest guesses</span><span><strong id="participants">0</strong> players</span></div><div id="history" class="history"></div></div></section>
-<div class="footer"><div><p class="command">Type <code>!solve lantern</code> in chat</p><p class="hint">One guess per viewer every 5 seconds. Type the whole word; spelling counts. Free to play; loyalty points stay untouched.</p></div><div id="host-controls" class="controls"><button id="pause" type="button">Pause</button><button id="next" type="button" hidden>Next round</button><button id="restart" type="button">New game</button></div></div>
+<div class="footer"><div><p class="command">Type <code>!solve</code> followed by your answer</p><p class="hint">One guess per viewer every 5 seconds. Type the whole word; spelling counts. Free to play; loyalty points stay untouched.</p></div><div id="host-controls" class="controls"><button id="pause" type="button">Pause</button><button id="next" type="button" hidden>Next round</button><button id="restart" type="button">New game</button></div></div>
 <a class="guide-link" href="../docs/chat-games.html">Setup &amp; more ways to play</a>
 </main><script src="party-engine.js"></script><script src="audience-page.js"></script></body></html>

diff --git a/games/quickcall.html b/games/quickcall.html
@@ -1,0 +1,5 @@
+<!doctype html>
+<html lang="en"><head><meta charset="utf-8"><meta name="viewport" content="width=device-width,initial-scale=1"><title>Quick Call | Social Stream Ninja</title><link rel="icon" href="../favicon.ico"><link rel="stylesheet" href="quickcall.css"></head><body>
+<div id="controls"><span id="connection" role="status">Waiting for chat</span><button id="pause">Pause</button><button id="restart">Clear scores</button></div>
+<main><header><div><small>SSN / EYES ON YOUR NAME</small><h1>Quick Call<span>&#10022;</span></h1></div><b id="clock">JOIN IN</b></header><p id="instruction">Type !quick in chat to join. Wait for your name, then type your code.</p><section id="calls" aria-label="Called players"></section><footer><span id="round">Waiting for players</span><span id="queue">0 waiting</span></footer><section class="scores"><h2>Fastest this session <small>response time includes stream + chat delay</small></h2><ol id="leaders"></ol></section><p class="note">30 seconds per turn &middot; Missed yours? Type !quick to rejoin &middot; Reload clears scores</p></main>
+<script src="quickcall-engine.js"></script><script src="quickcall.js"></script></body></html>

diff --git a/games/audience-page.js b/games/audience-page.js
@@ -31,6 +31,7 @@
             SSNTugView.render(game, el, history);
         } else if (game.card) {
             document.getElementById('round').textContent = 'Round ' + String(game.round).padStart(2, '0');
+            if (mode === 'number') document.querySelector('.command code').textContent = '!guess ' + Math.floor((game.low + game.high) / 2);
             var art = document.getElementById('party-art');
             art.textContent = mode === 'number' ? game.low + '\u2013' + game.high : mode === 'shuffle' ? game.scrambled.toUpperCase() : game.phase === 'result' && mode === 'showdown' ? game.card.labels[game.secret].toUpperCase() : mode === 'showdown' ? '\u270a \u270b \u270c' : '\u2600 \u263e \u2606';
             if (game.card.labels.length) {

diff --git a/games/catalog.js b/games/catalog.js
@@ -1,9 +1,10 @@
 window.SSNGamesCatalog = [
+  {"id":"quickcall","title":"Quick Call","category":"Party","description":"Wait for your name, type your random code, and race for the fastest reply.","command":"!quick","path":"games/quickcall.html","image":"images/games/quickcall.jpg","demo":true,"audience":"Solo-friendly"},
   {
     "id": "mazeraid",
     "title": "Maze Raid",
     "category": "Party",
-    "description": "Chat becomes avatar enemies in an auto-roaming retro maze with transparent space around it.",
+    "description": "Chat becomes avatar raiders in a full-window, auto-roaming retro maze.",
     "command": "Say anything in chat",
     "path": "games/mazeraid.html",
     "image": "images/games/mazeraid.jpg",

diff --git a/popup.html b/popup.html
@@ -14596,6 +14596,7 @@ input:checked + .slider:before {
 <option value="games/crewkitchen.html">🍳 Crew Kitchen</option>
 <option value="games/beaconrelay.html">🔦 Beacon Relay</option>
 <option value="games/meteorshield.html">🛡 Meteor Shield</option>
+<option value="games/quickcall.html">&#9889; Quick Call</option>
 <option value="games/memoryparade.html">🧠 Memory Parade</option>
 <option value="games/oddoneout.html">🔎 Odd One Out</option>
 <option value="games/sumsquad.html">➕ Sum Squad</option>
